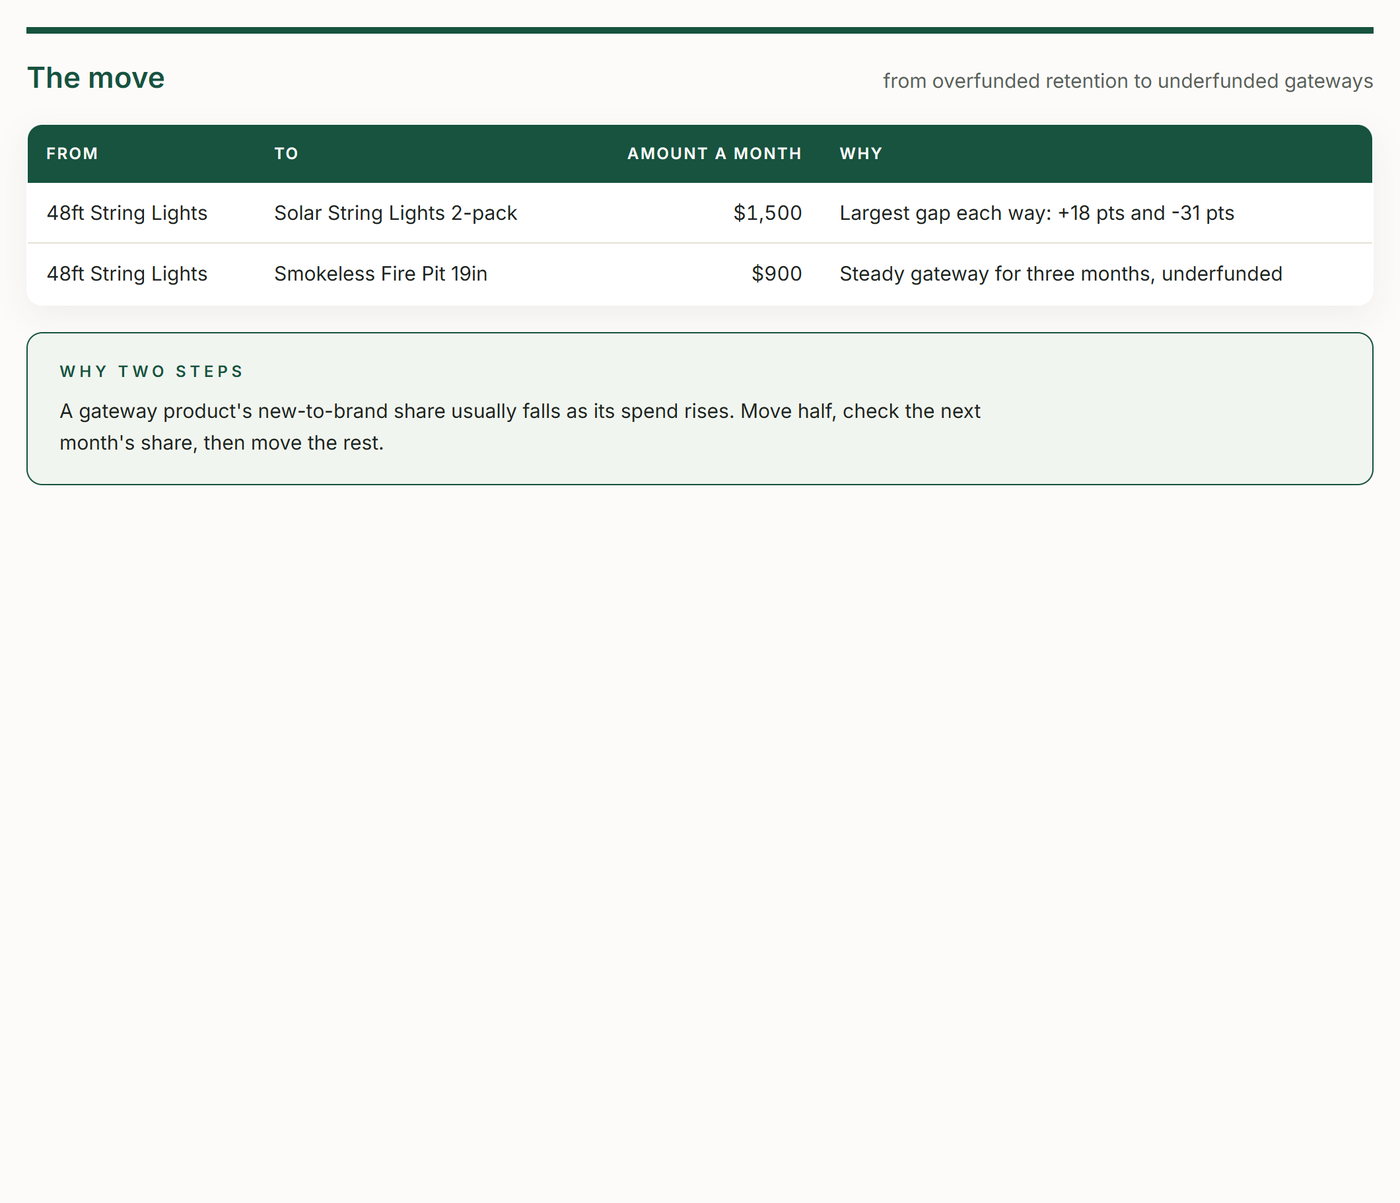
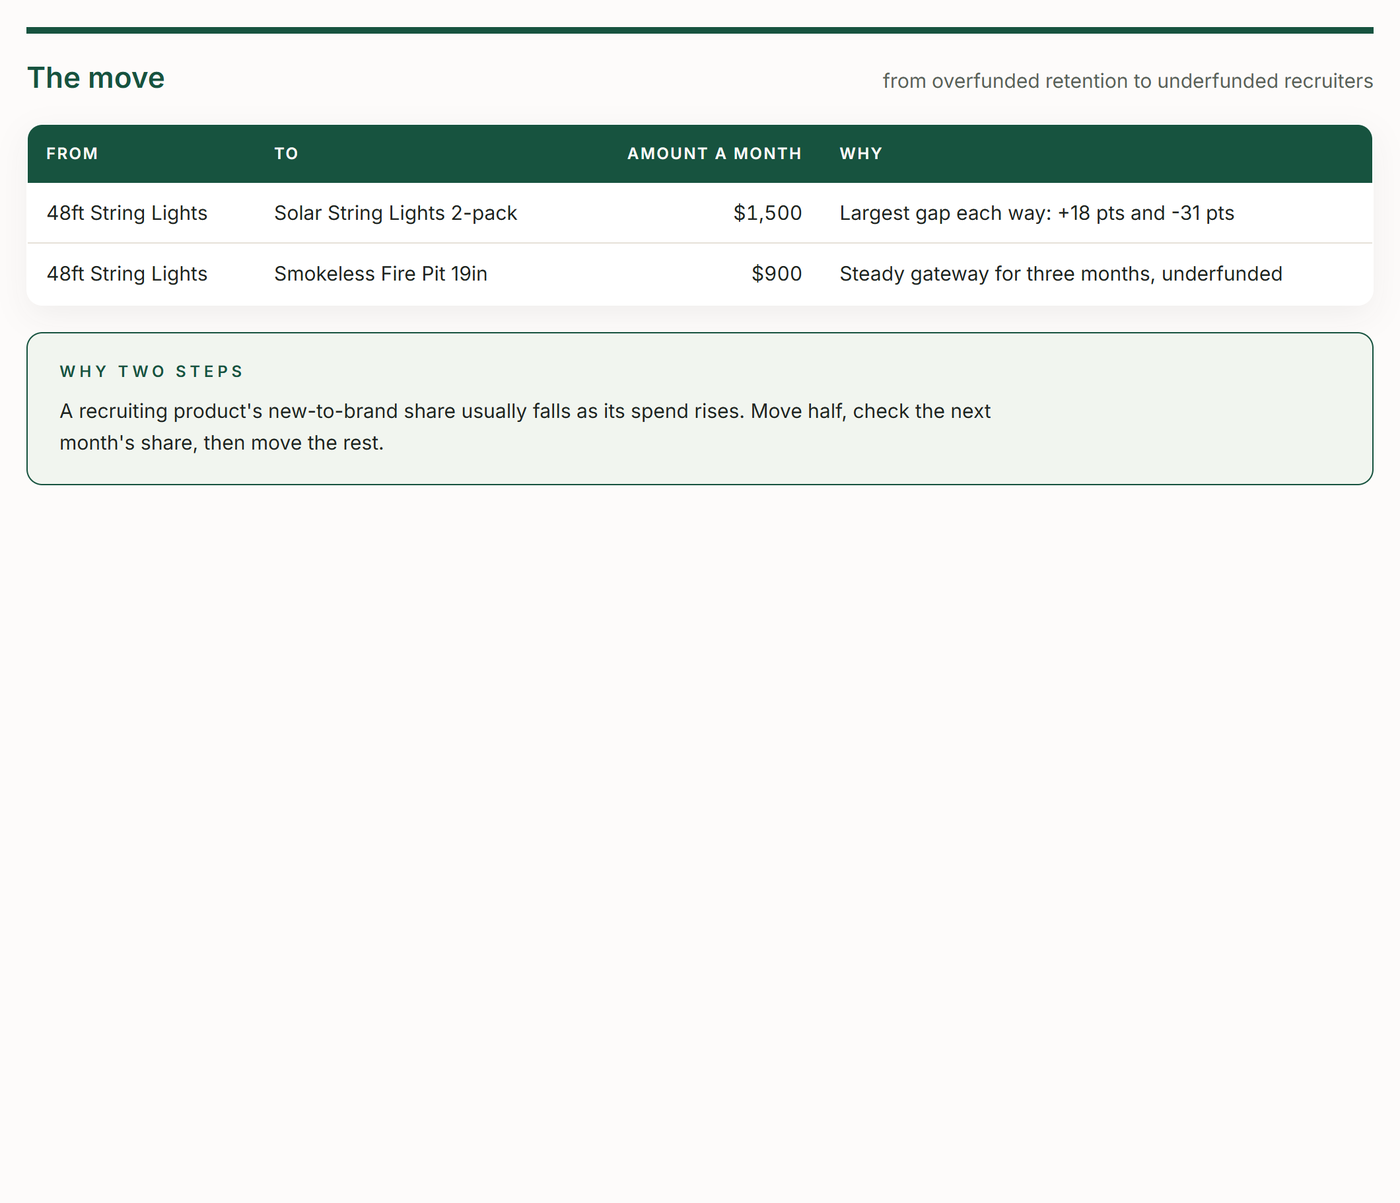
v1.1.0: fixes from a live-account test run
Recommends funding any product that recruits above the median with a positive gap, not only steady gateways, adds a halo check for products with little ad spend of their own, and classifies earlier months against their own median.

Changed region(s): [[0.0614, 0.3383, 0.7064, 0.3691], [0.645, 0.0615, 0.9829, 0.0923]]

diff --git a/skills/trackiq-amazon-amc-ntb-products/assets/report-template.html b/skills/trackiq-amazon-amc-ntb-products/assets/report-template.html
@@ -95,7 +95,7 @@ footer span{font-size:13px;color:var(--text-muted)}
     <div class="kpi"><div class="l">Their share of ad spend</div><div class="v">{{GATEWAY_SPEND_SHARE}}</div>
       <div class="s">Sponsored Products and Display</div></div>
     <div class="kpi"><div class="l">Suggested move</div><div class="v">{{MOVE}}</div>
-      <div class="s">a month, in two steps, from retention to gateway</div></div>
+      <div class="s">a month, in two steps, from retention to recruiters</div></div>
   </div>
 </div></header>
 <div class="wrap">
@@ -107,7 +107,7 @@ footer span{font-size:13px;color:var(--text-muted)}
     <thead><tr><th>Product</th><th>Class</th><th class="n">Customers</th><th class="n">New-to-brand</th>
     <th class="n">Share of new customers</th><th class="n">Share of ad spend</th><th class="n">Gap</th></tr></thead>
     <tbody>
-      <!-- sorted by share of new customers; class="emph" for underfunded gateways, "prob" for overfunded retention -->
+      <!-- sorted by share of new customers; class="emph" for underfunded recruiters, "prob" for overfunded retention -->
       <tr><td class="q">{{P_PRODUCT}}</td><td class="q">{{P_CLASS}}</td><td class="n">{{P_USERS}}</td>
       <td class="n">{{P_NTB}}</td><td class="n">{{P_CONTRIB}}</td><td class="n">{{P_SPEND_SHARE}}</td><td class="n">{{P_GAP}}</td></tr>
     </tbody>
@@ -132,7 +132,7 @@ footer span{font-size:13px;color:var(--text-muted)}
 
 <section>
   <div class="cat-head"><h3>The move</h3>
-    <div class="figs">from overfunded retention to underfunded gateways</div></div>
+    <div class="figs">from overfunded retention to underfunded recruiters</div></div>
   <div class="tw"><table>
     <thead><tr><th>From</th><th>To</th><th class="n">Amount a month</th><th>Why</th></tr></thead>
     <tbody>
@@ -141,7 +141,7 @@ footer span{font-size:13px;color:var(--text-muted)}
   </table></div>
   <div class="callout">
     <div class="h">Why two steps</div>
-    <p>A gateway product's new-to-brand share usually falls as its spend rises. Move half, check the next month's share, then move the rest.</p>
+    <p>A recruiting product's new-to-brand share usually falls as its spend rises. Move half, check the next month's share, then move the rest.</p>
   </div>
 </section>
 

diff --git a/skills/trackiq-amazon-amc-ntb-products/assets/method.md b/skills/trackiq-amazon-amc-ntb-products/assets/method.md
@@ -20,9 +20,10 @@ Take the median `ntb_share` of the non-thin ASINs in the focus month.
 | **Retention** | `ntb_share` at least 10 points below the median |
 | **Mixed** | everything between |
 
-Use the two earlier months as a check, not an input: a gateway in all three
-months is **steady**; one that only qualifies in the focus month is
-**new this month** and gets a note, not a funding recommendation.
+Use the two earlier months as a check, not an input. Classify each month
+against **that month's own median**. A gateway in all three months is
+**steady**; one that only qualifies in the focus month is **new this month**
+and gets a note, not a funding recommendation.
 
 ## 3. Their share of new customers
 
@@ -41,8 +42,17 @@ spend_share = asin ad spend (SP + SD) / total SP + SD spend on non-thin ASINs
 gap         = ntb_contribution - spend_share
 ```
 
-- **Underfunded gateway**: a steady gateway with `gap` above **+5 points**.
-  These are the recommendations.
+- **Underfunded recruiter**: any product that is not Retention, has
+  `ntb_share` at or above the median, was non-thin in all three months, and
+  has `gap` above **+5 points**. These are the recommendations. Do not limit
+  them to Gateways: the product that brings in the most new customers is
+  often Mixed — a best-seller whose share sits a few points above the median
+  on far more buyers than any gateway.
+- **Halo check.** `ntb_users` counts new customers who bought the product
+  after seeing *any* of the brand's ads, not only its own. A product with
+  almost no ad spend can still post a large share of new customers. When a
+  product's own spend is under 1% of the total, call the gap a test to run,
+  not a return already proven.
 - **Overfunded retention**: a retention product with `gap` below
   **−5 points**. Name it; recommend moving the difference, not cutting it.
 

diff --git a/skills/trackiq-amazon-amc-ntb-products/assets/checks.md b/skills/trackiq-amazon-amc-ntb-products/assets/checks.md
@@ -19,6 +19,10 @@
 - Thin products (under 50 purchasers) are listed separately and never ranked.
 - The account median is printed, so the classes can be understood.
 - Gateways that only qualify this month carry a note, not a recommendation.
+- Each earlier month was classified against its own median, not the focus
+  month's.
+- A recommended product with almost no ad spend of its own is framed as a
+  test (the halo check), not a proven return.
 
 ## 4. Language
 

diff --git a/skills/trackiq-amazon-amc-ntb-products/SKILL.md b/skills/trackiq-amazon-amc-ntb-products/SKILL.md
@@ -88,7 +88,7 @@ outward channel.
 
 ## Version
 
-`trackiq-amazon-amc-ntb-products` v1.0.0 (2026-09-21).
+`trackiq-amazon-amc-ntb-products` v1.1.0 (2026-09-21).
 
 If the user asks whether this skill is current, fetch
 `https://trackiq.com/skills/registry.json`, compare the `version` field for
